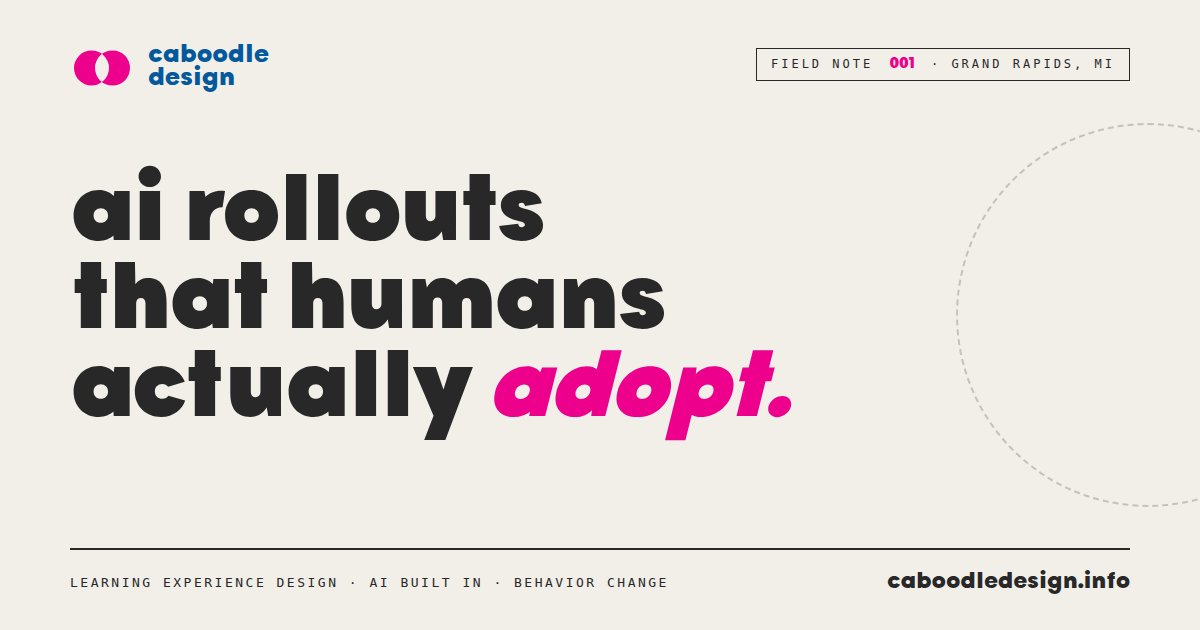
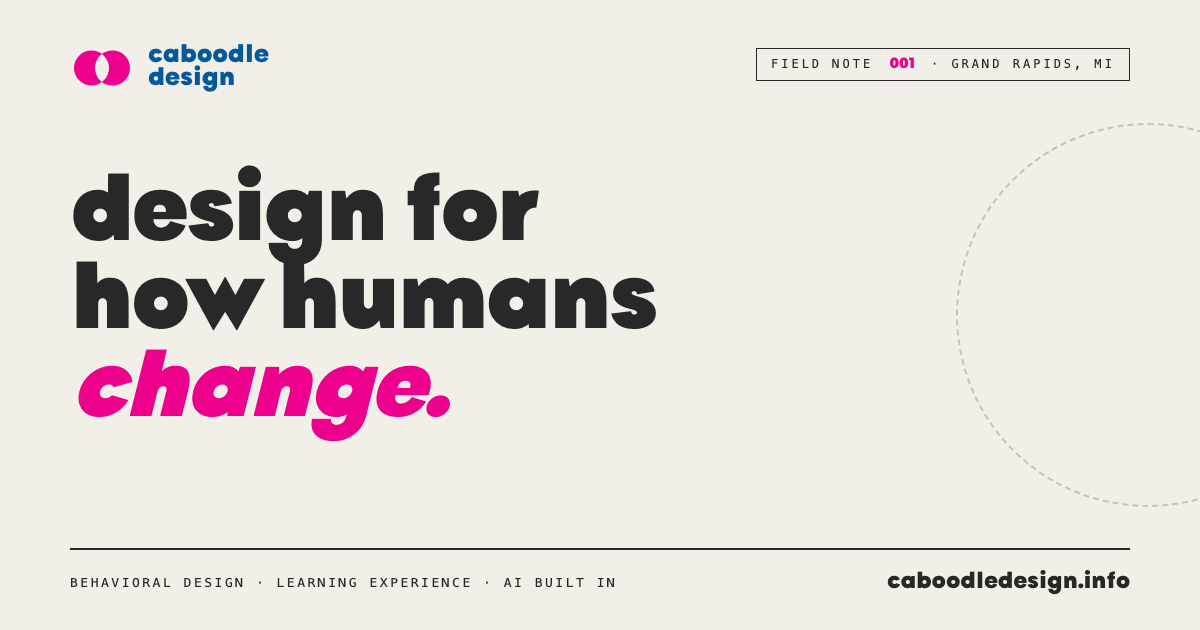
Share image: match the new homepage headline

diff --git a/assets/og/og-home.html b/assets/og/og-home.html
@@ -126,9 +126,9 @@
     <div class="og__brand">caboodle<br>design</div>
   </div>
   <div class="og__meta">FIELD NOTE <b>001</b> · GRAND RAPIDS, MI</div>
-  <h1 class="og__h">ai rollouts<br>that humans<br>actually <em>adopt.</em></h1>
+  <h1 class="og__h">design for<br>how humans<br><em>change.</em></h1>
   <div class="og__rule"></div>
-  <div class="og__tag">LEARNING EXPERIENCE DESIGN · AI BUILT IN · BEHAVIOR CHANGE</div>
+  <div class="og__tag">BEHAVIORAL DESIGN · LEARNING EXPERIENCE · AI BUILT IN</div>
   <div class="og__url">caboodledesign.info</div>
 </div>
 </body>
